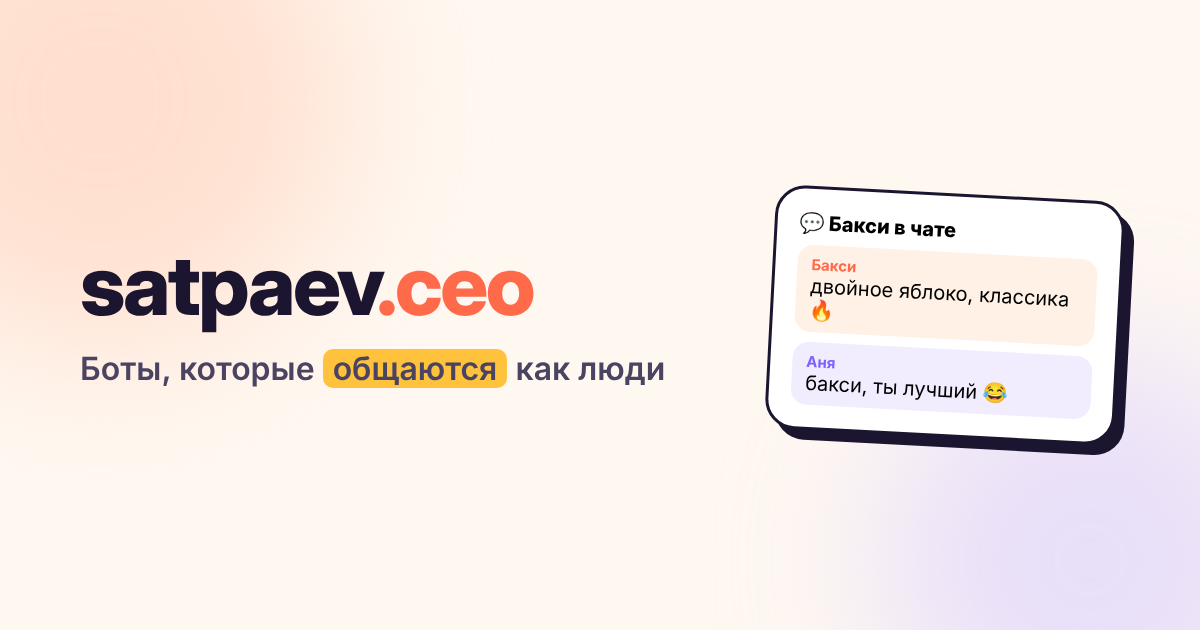
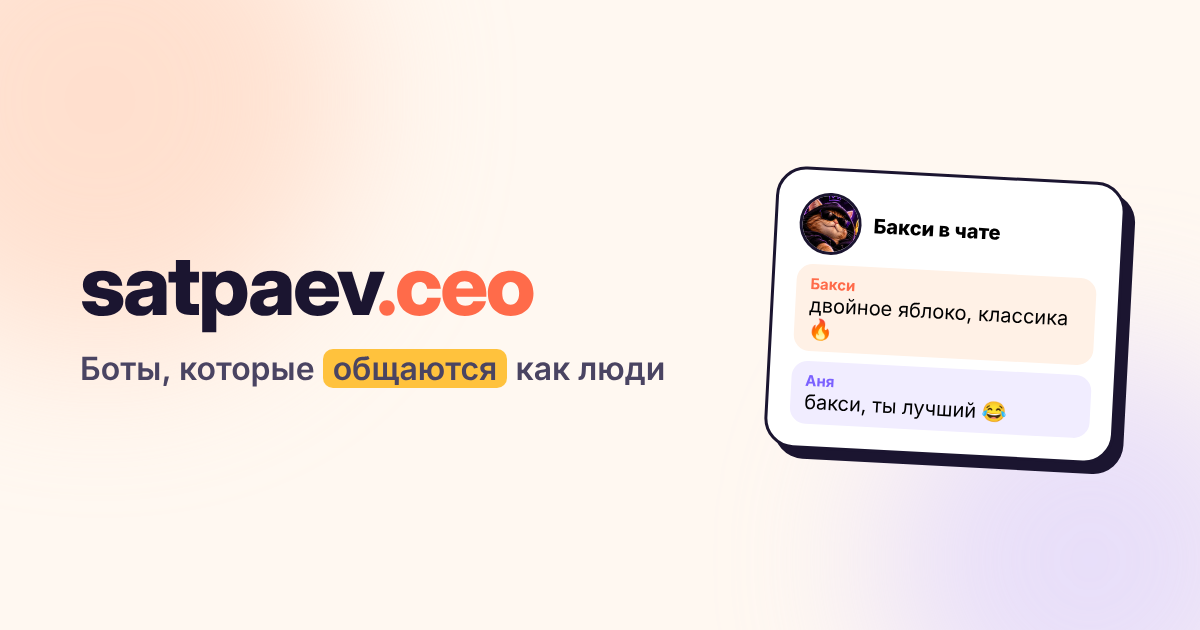
Сайт: аватарка и арт кота Бакси, фиолетово-золотой акцент на странице Бакси
Claude-Session: https://claude.ai/code/session_01Sbyg1VgWs6U9qJpKMqzqtT

Changed region(s): [[0.6167, 0.2413, 0.9558, 0.754]]

diff --git a/site/baxi.html b/site/baxi.html
@@ -17,12 +17,19 @@
   .bhero h1{font-size:clamp(52px,8vw,96px);margin:18px 0 4px}
   .bhero .tagline{font-family:Unbounded;font-weight:700;font-size:clamp(20px,2.6vw,28px);color:var(--coral)}
   .bhero .ava.big{width:110px;height:110px;font-size:46px;box-shadow:5px 5px 0 var(--ink);border-width:3px}
-  .bhero .stage{min-height:470px}
-  .bhero .phone{position:relative;width:100%;max-width:400px;margin-left:auto;transform:rotate(2deg)}
-  .bhero .feed{min-height:380px}
+  .bhero .stage{min-height:620px}
+  .baxi{--coral:#7c3aed;--pink:#c026d3}
+  .baxi .btn.coral{background:#7c3aed}
+  .bhero .phone{position:absolute;right:-20px;bottom:0;width:300px;transform:rotate(3deg)}
+  .baxi .logo i{background:#ff6b4a}
+  .art{position:absolute;left:0;top:0;width:310px;border:3px solid var(--ink);border-radius:30px;box-shadow:8px 8px 0 var(--ink);
+    transform:rotate(-4deg);overflow:hidden;background:#140a26}
+  .art img{width:100%;display:block}
+  @media (max-width:640px){.art{width:72%}.bhero .phone{width:84%}}
+  .bhero .feed{min-height:300px}
 </style>
 </head>
-<body>
+<body class="baxi">
 <nav class="nav"><div class="wrap">
   <a class="logo" href="/"><i>S</i><b>satpaev<span>.ceo</span></b></a>
   <div class="menu">
@@ -33,11 +40,11 @@
 </div></nav>
 
 <header class="hero bhero">
-  <div class="blob" style="width:560px;height:560px;background:#ffc9b5;top:-200px;left:-180px"></div>
+  <div class="blob" style="width:560px;height:560px;background:#e2d2ff;top:-200px;left:-180px"></div>
   <div class="blob" style="width:480px;height:480px;background:#ffe39a;top:160px;right:-160px"></div>
   <div class="wrap">
     <div>
-      <div class="ava big">Б<img src="/img/baxi.png" alt="Бакси" onerror="this.remove()"></div>
+      <div class="ava big">Б<img src="/img/baxi.jpg" alt="Бакси" onerror="this.remove()"></div>
       <h1>Бакси</h1>
       <div class="tagline">Свой в каждом чате</div>
       <p class="lead" style="margin-top:18px">Бот, который общается в группе как живой участник. Помнит людей и что они писали, шутит в своём характере, подводит итоги дня, устраивает викторины и зовёт всех в игру.</p>
@@ -52,12 +59,13 @@
       </div>
     </div>
     <div class="stage" aria-hidden="true">
+      <div class="art"><img src="/img/baxi-art.jpg" alt="Бакси"></div>
       <div class="phone">
         <div class="top"><div class="ava">🔥</div><div><div class="nm">Кальянная Алматы</div><div class="sb">214 участников · Бакси в чате</div></div></div>
         <div class="feed" id="feed"></div>
       </div>
-      <div class="sticker" style="top:-20px;left:30px">😂</div>
-      <div class="sticker" style="bottom:20px;left:-6px;animation-delay:-2s">🎯</div>
+      <div class="sticker" style="top:-24px;left:300px">👑</div>
+      <div class="sticker" style="bottom:30px;left:10px;animation-delay:-2s">💸</div>
     </div>
   </div>
 </header>

diff --git a/site/index.html b/site/index.html
@@ -48,7 +48,7 @@
         <pre id="code"></pre>
       </div>
       <div class="phone">
-        <div class="top"><div class="ava">Б<img src="/img/baxi.png" alt="" onerror="this.remove()"></div>
+        <div class="top"><div class="ava">Б<img src="/img/baxi.jpg" alt="" onerror="this.remove()"></div>
           <div><div class="nm">Кальянная Алматы</div><div class="sb">214 участников · Бакси в чате</div></div></div>
         <div class="feed" id="feed"></div>
       </div>
@@ -67,15 +67,15 @@
   <div class="wrap">
     <div class="head reveal"><h2>Мои <span class="hl mint">продукты</span></h2><p>Один бренд, несколько продуктов. Бакси уже работает, следующие готовлю.</p></div>
     <div class="grid2">
-      <a class="card prod reveal" href="/baxi" style="background:linear-gradient(150deg,#fff,#fff1e6)">
+      <a class="card prod reveal" href="/baxi" style="background:linear-gradient(150deg,#fff,#f1e8ff 70%,#fff4cf)">
         <div style="display:flex;justify-content:space-between;align-items:center">
-          <div class="ava" style="width:72px;height:72px;font-size:30px">Б<img src="/img/baxi.png" alt="Бакси" onerror="this.remove()"></div>
+          <div class="ava" style="width:72px;height:72px;font-size:30px">Б<img src="/img/baxi.jpg" alt="Бакси" onerror="this.remove()"></div>
           <span class="tag ok">● Работает</span>
         </div>
         <h3>Бакси</h3>
         <p>Бот, который становится своим в групповом чате. Болтает как живой участник, помнит всех, подводит итоги дня с номинациями, устраивает викторины и зовёт людей в игру.</p>
         <div class="tags"><span class="tag">Telegram</span><span class="tag">ИИ</span><span class="tag">игры</span><span class="tag">от 50$ в месяц</span></div>
-        <span class="btn coral sm" style="align-self:flex-start;margin-top:6px">Подробнее о Бакси →</span>
+        <span class="btn violet sm" style="align-self:flex-start;margin-top:6px">Подробнее о Бакси →</span>
       </a>
       <div class="card prod soon reveal">
         <div style="display:flex;justify-content:space-between;align-items:center"><div class="ic" style="background:#f3eefe">👀</div><span class="tag soon">Скоро</span></div>

diff --git a/site/assets/app.js b/site/assets/app.js
@@ -113,7 +113,7 @@
       }
       const m = document.createElement("div");
       m.className = "msg" + (color === "bot" ? " bot" : "");
-      const c = color === "bot" ? "#ff6b4a" : color;
+      const c = color === "bot" ? (document.body.classList.contains("baxi") ? "#7c3aed" : "#ff6b4a") : color;
       m.innerHTML = `<span class="who" style="color:${c}">${esc(who)}</span>${esc(text)}`;
       feed.appendChild(m);
       while (feed.children.length > 5) feed.firstElementChild.remove();
